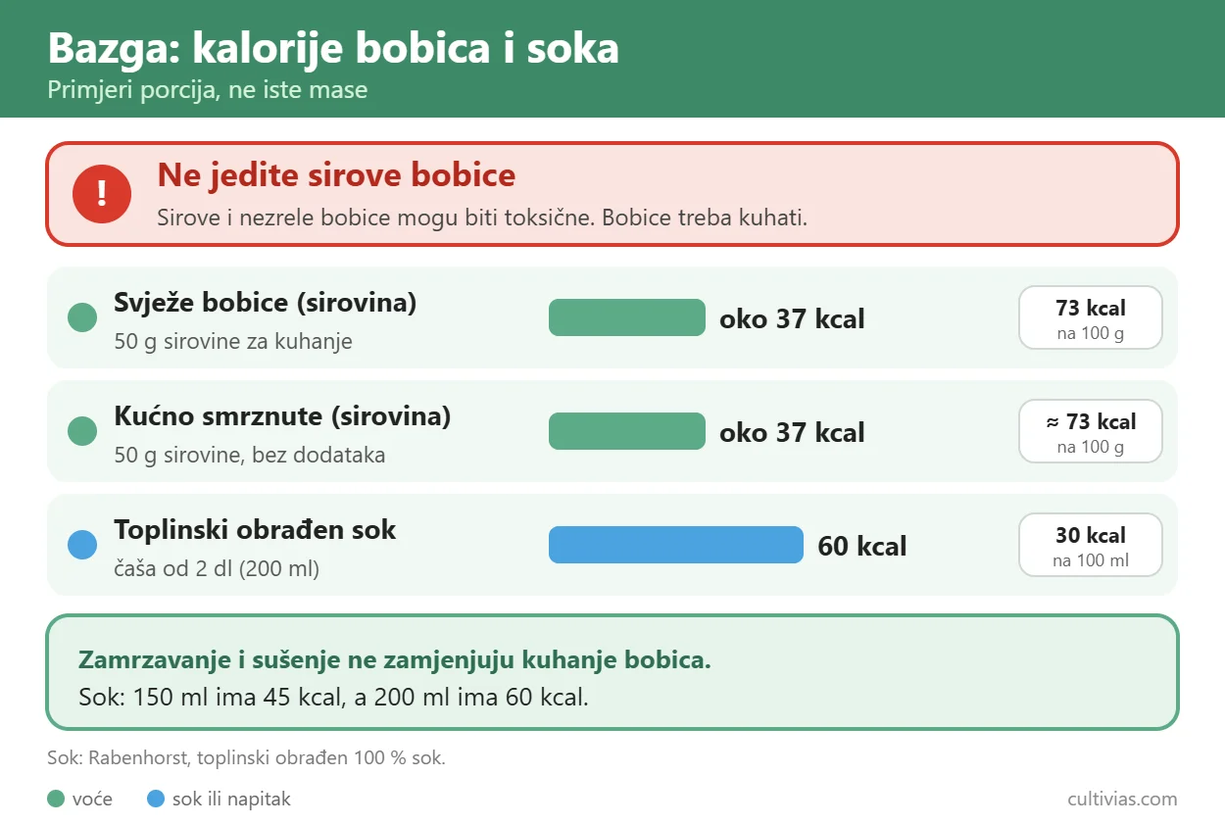
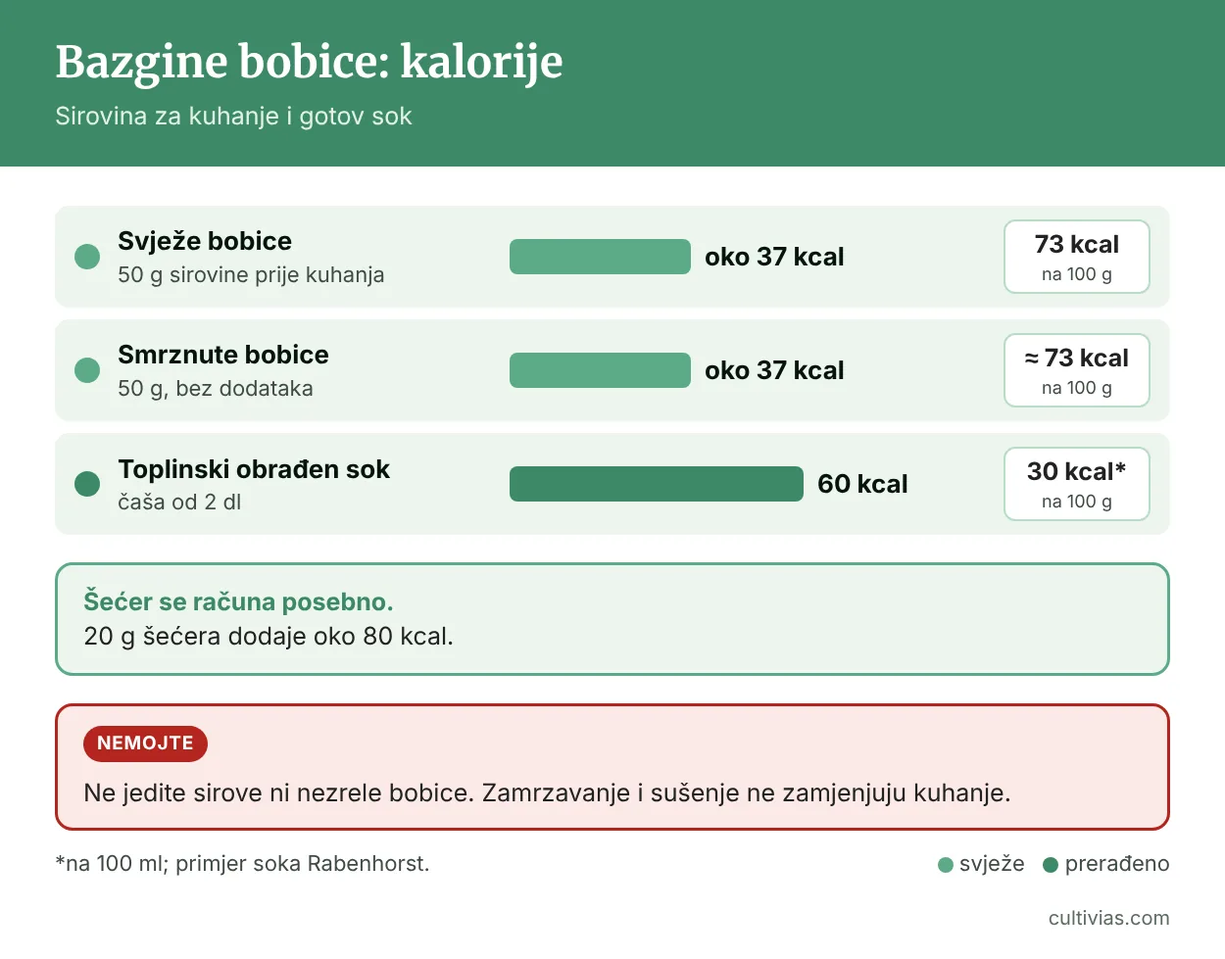
Bazga: čaj od bazge i kalorije bazginih bobica – ispravci i upozorenja
- Čaj od bazge: maknut naziv "aptika" (aptovina je otrovna abdovina),
  doziranje za djecu mlađu od 12 zamijenjeno EMA preporukom, maknute
  tvrdnje o ospicama i nekvalitetni izvori, doziranje usklađeno s EMA
- Kalorije bazginih bobica: izvori na hrvatskom, prerađena infografika
  s upozorenjem za sirove bobice, linkovi na srodne kalorijske članke

Claude-Session: https://claude.ai/code/session_01EBi2SCu3iP7XhSy3L9WRfJ

diff --git a/src/content/articles/čaj-od-bazge-ljekovitost-pravilna-priprema-i-moguće-nuspojave.md b/src/content/articles/čaj-od-bazge-ljekovitost-pravilna-priprema-i-moguće-nuspojave.md
@@ -11,6 +11,7 @@ perex: >-
   Priprema se od 3 do 5 grama osušenih cvjetova u 250 ml kipuće vode, uz stajanje od 10 do 15 minuta. Trudnicama i djeci mlađoj od 12 godina preporučuje se oprez i savjetovanje s liječnikom. Sirovi dijelovi biljke (bobice, lišće, kora) su toksični i ne smiju se konzumirati bez termičke obrade.
 readTime: 5
 publishedAt: 2026-07-09
+updatedAt: 2026-11-21
 expert_reviewed: false
 featured: true
 editors_pick: true
@@ -25,9 +26,9 @@ noindex: false
 ---
 ## Što je čaj od bazge?
 
-Čaj od bazge je biljni napitak koji se priprema od osušenih cvjetova **crne bazge** (*Sambucus nigra* L.), višegodišnjeg grma ili manjeg stabla iz porodice Adoxaceae. Biljka je u Europi poznata pod različitim imenima: **zova, zovika, bazgovina, aptika**, a njezina ljekovita primjena seže sve do antičke Grčke, kada je Hipokrat opisivao njezina diuretička i protuupalna svojstva. To potvrđuje i [sveobuhvatna studija o bioaktivnim komponentama cvijeta bazge](https://pmc.ncbi.nlm.nih.gov/articles/PMC11354468/) objavljena u časopisu *Foods* 2024. godine.
+Čaj od bazge je biljni napitak koji se priprema od osušenih cvjetova **crne bazge** (*Sambucus nigra* L.), višegodišnjeg grma ili manjeg stabla iz porodice Adoxaceae. U nas je poznata i kao **zova, zovika ili bazgovina**. Ne treba je brkati s abdovinom, koja se zove i aptovina (*Sambucus ebulus*), jer je ta srodnica otrovna. Ljekovita primjena bazge seže do antičke Grčke, kada je Hipokrat opisivao njezino diuretičko (djelovanje koje potiče mokrenje) i protuupalno djelovanje, kako navodi [pregledni rad o bioaktivnim tvarima cvijeta bazge](https://pmc.ncbi.nlm.nih.gov/articles/PMC11354468/) objavljen 2024. u znanstvenom časopisu *Foods*.
 
-Crna [bazga](https://www.cultivias.com/voce/bazga-zova-sve-o-ovoj-mo%C4%87noj-i-poznatoj-biljci/) prirodno raste diljem Europe, zapadne Azije i istočne Amerike. Može se pronaći uz rubove šuma, potoke, livade i prometnice. Stablo naraste do **10 metara visine**, a bijelo-žuti cvjetovi formiraju se u karakteristične "tanjure" i procvjetaju **od svibnja do srpnja**. Baš su ti cvjetovi, ubrani u punom cvatu, osnova su za pripremu čaja koji se koristi u ljekovite svrhe.
+Crna [bazga](https://www.cultivias.com/voce/bazga-zova-sve-o-ovoj-mo%C4%87noj-i-poznatoj-biljci/) prirodno raste diljem Europe, zapadne Azije i istočne Amerike, uz rubove šuma, potoke, livade i prometnice. Naraste do **10 metara**, a bijelo-žuti cvjetovi skupljeni su u plosnate cvatove nalik tanjurima i cvatu **od svibnja do srpnja**. Upravo se ti cvjetovi, ubrani u punom cvatu, koriste za čaj.
 
 Važno je naglasiti da se za pripremu čaja koriste isključivo **cvjetovi** i termički obrađene **bobice**, dok su lišće, kora, korijen i stabljika bazge **toksični dijelovi biljke** koji se ne smiju konzumirati u sirovom stanju.
 
@@ -35,9 +36,7 @@ Važno je naglasiti da se za pripremu čaja koriste isključivo **cvjetovi** i t
 
 
 
-Čaj od bazge najpoznatiji je kao potpora kod simptoma **prehlade, gripe i upale sinusa**. Aktivni spojevi u cvijetu mogu pomoći u smanjenju oticanja sluznice dišnih puteva i olakšavanju iškašljavanja, zbog čega je bazga jedan od rijetkih biljnih pripravaka čiju je primjenu kod prehlade odobrila **njemačka Komisija E** - stručno tijelo za ocjenu biljnih lijekova.
-
- Pregled ljekovitih svojstava cvijeta bazge koji vodi [WebMD u svojoj bazi prirodnih lijekova](https://www.webmd.com/vitamins/ai/ingredientmono-708/elderflower) to potvrđuje, uz napomenu da su neke tvrdnje još uvijek predmet istraživanja.
+Čaj od bazge najpoznatiji je kao potpora kod simptoma **prehlade, gripe i upale sinusa**. Aktivni spojevi u cvijetu mogu pomoći u smanjenju oticanja sluznice dišnih puteva i olakšavanju iškašljavanja, a njemačka **Komisija E**, nekadašnje stručno tijelo za ocjenu biljnih lijekova, odobrila je njegovu primjenu kod prehlade. Europska agencija za lijekove (EMA) također priznaje [tradicionalnu upotrebu cvijeta bazge](https://www.ema.europa.eu/en/medicines/herbal/sambuci-flos) kod prvih simptoma prehlade, ali samo kod odraslih i djece starije od 12 godina. Američki zdravstveni portal WebMD u [bazi prirodnih lijekova](https://www.webmd.com/vitamins/ai/ingredientmono-708/elderflower) navodi da su neke tvrdnje o bazgi još predmet istraživanja.
 
 U nastavku navodimo učinke za koje postoji studijska potpora, uz napomenu da većina istraživanja još uvijek nije provedena na dovoljno velikom uzorku ljudi:
 
@@ -45,23 +44,23 @@ U nastavku navodimo učinke za koje postoji studijska potpora, uz napomenu da ve
 
 Klorogenska i kavena kiselina prisutne u cvijetu pokazale su sposobnost inhibicije rasta nekoliko sojeva bakterija u laboratorijskim uvjetima, uključujući *Staphylococcus aureus* i *Pseudomonas aeruginosa*. 
 
-Prema istraživanju objavljenom u časopisu *Foods* (2024.), cvijet bazge pokazao je u laboratorijskim testovima veću inhibicijsku aktivnost prema bolničkim patogenima od lišća i bobica iste biljke — no važno je napomenuti da laboratorijski rezultati ne znače nužno isti učinak u ljudskom organizmu.
+Prema istraživanju objavljenom u časopisu *Foods* (2024.), cvijet bazge pokazao je u laboratorijskim testovima veću inhibicijsku aktivnost prema bolničkim patogenima od lišća i bobica iste biljke. Laboratorijski rezultati ne znače nužno isti učinak u ljudskom organizmu.
 
 * **Antioksidativna i protuupalna potpora**
 
- Flavonoidi i triterpeni u cvijetu bazge pokazuju sposobnost vezanja slobodnih radikala i smanjenja aktivnosti upalnih enzima u laboratorijskim istraživanjima. Studija iz 2024. utvrdila je da divlja forma bazge sadrži **394 mg polifenola na 100 g suhe tvari**, što je visoka vrijednost u usporedbi s drugim ljekovitim biljkama.
+ Flavonoidi i triterpeni u cvijetu bazge pokazuju sposobnost vezanja slobodnih radikala i smanjenja aktivnosti upalnih enzima u laboratorijskim istraživanjima. Prema spomenutom radu iz 2024., cvijet divlje bazge sadrži **394 mg polifenola na 100 g suhe tvari**.
 
 * **Poticanje znojenja (dijaforetski učinak)**
 
- Vrući čaj od bazge tradicionalno se koristi kao potpora kod **povišene tjelesne temperature**, poticanjem znojenja. Ovaj učinak dokumentiran je u tradicionalnoj medicini i prepoznat od strane njemačke Komisije E, što prenosi [Ordinacija.hr u svom pregledu ljekovitih svojstava bazge](https://ordinacija.vecernji.hr/zdravi-tanjur/jedi-zdravo/bazga-kao-lijek-donosimo-recepte-za-sirup-i-caj/).
+ Vrući čaj od bazge tradicionalno se koristi kao potpora kod **povišene tjelesne temperature**, poticanjem znojenja. Taj je učinak poznat u narodnoj medicini, a priznala ga je i njemačka Komisija E, kako prenosi hrvatski zdravstveni portal [Ordinacija.hr u pregledu ljekovitih svojstava bazge](https://ordinacija.vecernji.hr/zdravi-tanjur/jedi-zdravo/bazga-kao-lijek-donosimo-recepte-za-sirup-i-caj/).
 
 * **Moguća diuretička potpora**
 
-Bazga može pomoći u izlučivanju viška vode i soli iz tijela, što se u tradicionalnoj medicini koristi kao potpora kod blage **retencije tekućine**. Kliničkih istraživanja na ljudima na ovu temu je malo, pa su ovo  više narodni savjeti i preporuke. No kod bilokakvih ostalih tegoba i bolesti svakako se posavjetujete s liječnikom.
+Bazga može pomoći u izlučivanju viška vode i soli iz tijela, što se u tradicionalnoj medicini koristi kao potpora kod blage **retencije tekućine**. Kliničkih istraživanja na ljudima o tome ima malo, pa je riječ uglavnom o narodnim savjetima. Kod oticanja nogu ili drugih tegoba javite se liječniku, jer zadržavanje tekućine može biti znak bolesti srca ili bubrega.
 
 * **Moguća potpora regulaciji šećera u krvi**
 
- Istraživanja provedena na životinjskim modelima sugeriraju da ekstrakti bazge mogu utjecati na lučenje inzulina i apsorpciju glukoze. **Klinička istraživanja na ljudima još su ograničena** i ovi rezultati zahtijevaju daljnju potvrdu - bazga se ne smije koristiti kao zamjena za terapiju dijabetesa. No svako istraživanje kreće na životinjama, pa je svakako vrijedno popratiti kako će se sve ovo odvijati u budućnosti.
+ Istraživanja provedena na životinjskim modelima sugeriraju da ekstrakti bazge mogu utjecati na lučenje inzulina i apsorpciju glukoze. **Klinička istraživanja na ljudima još su ograničena** i ovi rezultati zahtijevaju daljnju potvrdu - bazga se ne smije koristiti kao zamjena za terapiju dijabetesa. Je li taj učinak važan i kod ljudi, tek treba istražiti.
 
 ![](/images/articles/drvo-bazge-u-punom-cvatu.webp)
 
@@ -73,8 +72,8 @@ Ljekovitost cvijeta bazge temelji se na bogatom i raznovrsnom kemijskom sastavu.
 | ---------------- | --------------------------------------------- | ----------------------------------------- |
 | Flavonoidi       | Rutin, kvercetin                              | Antioksidativno, protuupalno              |
 | Fenolne kiseline | Klorogenska, kavena, ferulinska kiselina      | Antibakterijsko, protuupalno              |
-| Triterpeni       | alfa-amirin, beta-amirin, ursulinska kiselina | Protuupalno, potencijalno antikancerogeno |
-| Steroli          | beta-sitosterol, kampesterol                  | Kardioprotektivno                         |
+| Triterpeni       | alfa-amirin, beta-amirin, ursulinska kiselina | Protuupalno; protutumorsko djelovanje istražuje se u laboratoriju |
+| Steroli          | beta-sitosterol, kampesterol                  | Moguća zaštita srca i krvnih žila (istražuje se) |
 | Vitamini         | Vitamin C, vitamin A                          | Antioksidativno, imunološko               |
 | Minerali         | Kalij, kalcij, željezo                        | Elektrolitska ravnoteža                   |
 | Esencijalna ulja | Oko 58 spojeva                                | Karakteristična aroma, antiseptičko       |
@@ -86,7 +85,7 @@ Ljekovitost cvijeta bazge temelji se na bogatom i raznovrsnom kemijskom sastavu.
 
 ## Kako se suši cvijet bazge za čaj?
 
-Pravilno sušenje cvjetova bazge ključno je za **očuvanje ljekovitih svojstava** i sprječavanje razvoja plijesni. Cvjetovi se beru u punom cvatu, kada je otvoreno oko 80% cvjetića na cvatu — u klimatskim uvjetima srednje Europe to odgovara razdoblju **od kraja svibnja do kraja lipnja**. Isti princip vrijedi i za sušenje kamilice, o čemu smo pisali u detaljnom vodiču [kako pravilno osušiti kamilicu za savršen čaj](https://www.cultivias.com/bilje/kako-pravilno-osu%C5%A1iti-kamilicu-za-savr%C5%A1en-%C4%8Daj/).
+Pravilno sušenje **čuva ljekovita svojstva** cvjetova bazge i sprječava plijesan. Cvjetovi se beru u punom cvatu, kada je otvoreno oko 80% cvjetića na cvatu — u klimatskim uvjetima srednje Europe to odgovara razdoblju **od kraja svibnja do kraja lipnja**. Isti princip vrijedi i za sušenje kamilice, o čemu piše članak [kako pravilno osušiti kamilicu](https://www.cultivias.com/bilje/kako-pravilno-osu%C5%A1iti-kamilicu-za-savr%C5%A1en-%C4%8Daj/).
 
 ### Tradicionalni domaći način sušenja i pripreme čaja u prahu- moj recept
 
@@ -117,13 +116,13 @@ Ako cvjetovi tijekom sušenja **potamne ili posmeđe**, treba ih baciti - izgubi
 4. Procijedite kroz sitno cjedilo ili filter.
 5. Po želji zasladite **medom** i dodajte nekoliko kapi svježe iscijeđenog limuna.
 
-Preporučuje se piti **2 do 3 šalice dnevno**, a kod akutnih simptoma prehlade ili gripe čaj se može konzumirati i svakih 2 sata.
+Pije se **2 do 3 šalice dnevno**. Europska agencija za lijekove za čaj navodi 2 do 5 g osušenog cvijeta tri puta dnevno, pa ga ne pijte češće, ni kod jače prehlade. Ako simptomi traju dulje od tjedan dana ili se pogoršaju, javite se liječniku. Kod prehlade se pije i [čaj od majčine dušice](https://www.cultivias.com/bilje/%C4%8Daj-od-maj%C4%8Dine-du%C5%A1ice-ljekovitost-djelovanje-i-pravilna-priprema/).
 
 ![](/images/articles/sušeni-cvjetovi-bazge-spremni-za-čaj.webp)
 
 ### Recept: Čaj od bazge i đumbira za jači imunitet
 
-Kombinacija bazge i đumbira pojačava antivirusno i protuupalno djelovanje napitka. Za pripremu su vam potrebni:
+Đumbir čaju daje ljutkast okus i također se tradicionalno pije kod prehlade, iako nije dokazano da pojačava djelovanje bazge. Za pripremu su vam potrebni:
 
 * 5 grama osušenih cvjetova bazge
 * 2 manja komadića svježe naribanog đumbira
@@ -131,59 +130,58 @@ Kombinacija bazge i đumbira pojačava antivirusno i protuupalno djelovanje napi
 * 1 žličica meda
 * Nekoliko kapi limunovog soka
 
-Cvjetove bazge prelijte kipućom vodom i ostavite 2 minute. Dodajte naribani đumbir i ostavite još 5 minuta. Procijedite, dodajte med i limun te poslužite vruće. Ovaj napitak posebno je preporučljiv **na početku prehlade ili gripe**, a recept navodi i portal Kreni Zdravo u svom [pregledu čaja od bazge i njegovih ljekovitih svojstava](https://krenizdravo.dnevnik.hr/prehrana/cajevi/caj-od-bazge).
+Cvjetove bazge prelijte kipućom vodom i ostavite 2 minute. Dodajte naribani đumbir i ostavite još 5 minuta. Procijedite, dodajte med i limun te poslužite vruće. Napitak se najčešće pije **na početku prehlade**, a sličan recept donosi i hrvatski zdravstveni portal Kreni Zdravo u [pregledu čaja od bazge i njegovih ljekovitih svojstava](https://krenizdravo.dnevnik.hr/prehrana/cajevi/caj-od-bazge).
 
 ## Čaj od bazge za djecu
 
-Čaj od cvjetova bazge smatra se sigurnim za djecu i tradicionalno se koristi za ublažavanje simptoma **dječjih prehlada, kašlja, gripe** te eruptivnih bolesti poput ospica i vodenih kozica. Pomaže pri iskašljavanju, smiruje upaljeno grlo i može blago sniziti povišenu temperaturu.
+Čaj od cvjetova bazge tradicionalno se daje djeci kod prehlade, kašlja i gripe, jer pomaže iskašljavanju, smiruje grlo i potiče znojenje. Europska agencija za lijekove (EMA) ipak navodi da su lijekovi od cvijeta bazge namijenjeni samo odraslima i djeci starijoj od 12 godina, jer za mlađu djecu nema dovoljno podataka o sigurnosti.
 
-Prema analizi integrativnog medicine specijalista dr. Naoki Umede s [Cleveland Clinica](https://health.clevelandclinic.org/elderberry-for-kids), bazga pripremljena na pravilan način može biti siguran i zdrav dio djetetove prehrane — uz ključnu napomenu da se **ne smiju koristiti lišće, grančice ili sirove bobice** jer sadrže cijanogene glikozide koji su toksični. 
+Zato vrijedi sljedeće:
 
-Slično vrijedi i za druge biljne čajeve koji se daju djeci, poput [čaja od kamilice](https://www.cultivias.com/bilje/%C4%8Daj-od-kamilice/), koji je zahvaljujući blagom djelovanju na probavu i živčani sustav jedan od najčešće preporučivanih biljnih napitaka za djecu.
+* **djeca mlađa od 12 godina** – čaj od bazge dajte samo uz savjet pedijatra
+* **djeca starija od 12 godina** – mogu piti čaj kao odrasli, a na početku je dovoljno pola šalice
+* **samo cvjetovi i kuhane bobice** – lišće, grančice i sirove bobice sadrže cijanogene glikozide, tvari iz kojih se u tijelu oslobađa otrovni cijanid, na što upozorava i Klinika Cleveland (Cleveland Clinic) u [članku o bazgi za djecu](https://health.clevelandclinic.org/elderberry-for-kids)
+* **alergija na pelud** – ako dijete ima peludnu alergiju, posavjetujte se s pedijatrom
 
-**Doziranje za djecu** razlikuje se od doziranja za odrasle:
+Visoka temperatura kod male djece, osip ili kašalj koji ne prolazi traže pregled liječnika, a čaj nije zamjena za liječenje. Kod djece se često daje i [čaj od kamilice](https://www.cultivias.com/bilje/%C4%8Daj-od-kamilice/), uz ista ograničenja za bebe.
 
-* **Djeca do 5 godina:** 1 do 2 žlice razrijeđenog čaja
-* **Djeca od 5 do 12 godina:** četvrtina do pola šalice
-* **Djeca starija od 12 godina:** pola šalice do jedna puna šalica
-
-Uvijek počnite s manjom dozom i pratite reakciju djeteta. Ako dijete ima poznate **alergije na pelud** ili trave, posavjetujte se s pedijatrom prije davanja čaja od bazge.
+![Infografika: što je kod bazge sigurno, a što nije; brati zrele bobice i kuhati ih, a ne jesti sirove i nezrele bobice, listove, koru ni peteljke, te ne davati pripravke od cvijeta djeci mlađoj od 12 godina](/images/articles/infografika-bazga-sigurna-upotreba.webp)
 
 ## Čaj od bazge u trudnoći i dojenju
 
-Sigurnost konzumacije čaja od bazge u **trudnoći i dojenju nije u potpunosti potvrđena** kliničkim istraživanjima, stoga se preporučuje oprez. Nema dovoljno podataka koji bi potvrdili ili isključili rizike za fetus ili novorođenče, što navodi i [pregled sigurnosti biljnih čajeva u trudnoći portala Netmums](https://www.netmums.com/pregnancy/can-you-drink-elderflower-when-pregnant).
+Sigurnost čaja od bazge u **trudnoći i dojenju nije potvrđena** istraživanjima. Američki Nacionalni centar za komplementarno i integrativno zdravlje ([NCCIH](https://www.nccih.nih.gov/health/elderberry)) navodi da se malo zna o tome je li bazga sigurna za trudnice i dojilje.
 
-Dok neki izvori navode da je umjerena konzumacija čaja od cvjetova (jedna do dvije šalice dnevno) prihvatljiva za trudnice, drugi preporučuju **potpuno izbjegavanje** zbog nedostatka kliničkih dokaza. 
+Neki izvori umjerene količine čaja od cvjetova smatraju prihvatljivima, a drugi savjetuju potpuno izbjegavanje, upravo zbog nedostatka podataka. To vrijedi i za bobice bazge.
 
-Posebno se naglašava da trudnice i dojilje **ne bi trebale konzumirati bobice bazge**, čak ni kuhane, jer aktivne tvari mogu prijeći u majčino mlijeko — što dokumentira analiza [My Pure Delivery o sigurnosti bazge za dojilje](https://mypuredelivery.com/5-reasons-elderberry-may-not-be-safe-while-breastfeeding/).
-
-Preporuka je jasna: ako ste trudni ili dojite i razmišljate o konzumaciji čaja od bazge, **obavezno se posavjetujte sa svojim ginekologom ili obiteljskim liječnikom** prije nego što ga počnete piti.
+Ako ste trudni ili dojite, prije pijenja čaja od bazge **posavjetujte se sa svojim ginekologom ili obiteljskim liječnikom**.
 
 ## Nuspojave i kontraindikacije
 
-Čaj od cvjetova bazge dobro se podnosi kod većine odraslih osoba kada se konzumira u preporučenim količinama. Nuspojave su rijetke, ali postoje situacije u kojima treba biti oprezan, što potvrđuje i [pregled nuspojava i kontraindikacija cvijeta bazge na WebMD-u](https://www.webmd.com/vitamins/ai/ingredientmono-708/elderflower).
+Čaj od cvjetova bazge dobro se podnosi kod većine odraslih osoba kada se konzumira u preporučenim količinama. Nuspojave su rijetke, ali postoje situacije u kojima treba biti oprezan, kako navodi i [pregled nuspojava i kontraindikacija cvijeta bazge na portalu WebMD](https://www.webmd.com/vitamins/ai/ingredientmono-708/elderflower).
 
 **Moguće nuspojave** uključuju proljev i probavne smetnje (mučnina, nadutost, grčevi) kod prekomjerne konzumacije, te alergijske reakcije kod osoba **alergičnih na pelud**, posebice na trave i biljke iz iste porodice.
 
 Kada je riječ o kontraindikacijama, posebno treba naglasiti sljedeće:
 
 * **Sirovi dijelovi biljke su toksični.** Lišće, kora, korijen, stabljika i nezrele bobice crne bazge sadrže cijanogene glikozide, koji se u tijelu mogu razgraditi u cijanovodičnu kiselinu. Simptomi trovanja uključuju mučninu, povraćanje i proljev. **Termičkom obradom** ovi spojevi se razgrađuju i biljka postaje sigurna za konzumaciju.
-* **Interakcije s lijekovima za dijabetes.** Bazga može sniziti razinu šećera u krvi, pa bi mogla pojačati učinak lijekova poput **metformina i inzulina**. Osobe s dijabetesom trebaju se posavjetovati s liječnikom.
-* **Interakcije s lijekovima za krvni tlak.** Bazga može sniziti krvni tlak, stoga se ne preporučuje kombinirati s **antihipertenzivima** bez savjeta liječnika.
+* **Interakcije s lijekovima za dijabetes.** Bazga bi mogla sniziti razinu šećera u krvi, pa bi mogla pojačati učinak lijekova poput **metformina i inzulina**. Osobe s dijabetesom trebaju se posavjetovati s liječnikom.
+* **Interakcije s lijekovima za krvni tlak.** Bazga bi mogla sniziti krvni tlak, stoga se ne preporučuje kombinirati s **antihipertenzivima** bez savjeta liječnika.
 * **Diuretici.** Budući da bazga ima vlastito diuretičko djelovanje, kombinacija s diureticima može dovesti do prekomjernog gubitka tekućine i elektrolita.
 * **Kemoterapija.** Osobe koje primaju kemoterapiju trebaju se posavjetovati s onkologom prije konzumacije bazge.
 
 ## Čaj od bazge i probava
 
-Čaj od bazge može pozitivno utjecati na probavni sustav na nekoliko načina. **Klorogenska kiselina** prisutna u cvijetu stimulira crijevnu peristaltiku i potiče lučenje žuči i klorovodične kiseline, što poboljšava probavu i može pomoći kod **zatvora**. Slično protuupalno djelovanje na probavni sustav ima i kamilica, o čemu detaljno pišemo u članku [kamilica za olakšanje probave, nadutosti i grčeva](https://www.cultivias.com/bilje/kamilica-olak%C5%A1anje-probave-nadutosti-i-gr%C4%8Deva/).
+Čaj od bazge može pozitivno utjecati na probavni sustav na nekoliko načina. Smatra se da **klorogenska kiselina** iz cvijeta potiče peristaltiku (pokrete crijeva kojima se sadržaj kreće prema van) i lučenje žuči i želučane kiseline, pa bi mogla pomoći kod **zatvora**. Za to zasad nema čvrstih dokaza na ljudima. Slično protuupalno djelovanje na probavni sustav ima i kamilica, o čemu detaljno pišemo u članku [kamilica za olakšanje probave, nadutosti i grčeva](https://www.cultivias.com/bilje/kamilica-olak%C5%A1anje-probave-nadutosti-i-gr%C4%8Deva/).
 
-Istraživanja su pokazala da čajne mješavine koje sadrže bazgu, zajedno s **anisem, komoračem i cvjetom sene**, mogu značajno ubrzati prolazak sadržaja kroz probavni sustav i olakšati opstipaciju. Treba ipak napomenuti da je teško sa sigurnošću pripisati ovaj učinak isključivo bazgi, s obzirom da se radi o mješavini biljaka.
+Istraživanja su pokazala da čajne mješavine koje sadrže bazgu, zajedno s **anisem, komoračem i cvjetom sene**, mogu značajno ubrzati prolazak sadržaja kroz probavni sustav i olakšati opstipaciju. Učinak se ne može pripisati samo bazgi, jer je sena (list biljke *Senna*) sama po sebi jako laksativno sredstvo.
 
-Za jači laksativni učinak koristi se **čaj od bobica bazge** (dekokt), koji se priprema kuhanjem 10 do 15 grama suhih bobica u pola litre vode 10 minuta, uz stajanje od još 10 minuta i cijeđenje. Ovaj napitak djeluje nešto snažnije od čaja od cvjetova i preporučuje se kod izraženog zatvora.
+Za jači laksativni učinak koristi se **čaj od bobica bazge** (dekokt), koji se priprema kuhanjem 10 do 15 grama suhih bobica u pola litre vode 10 minuta, uz stajanje od još 10 minuta i cijeđenje. Djeluje nešto jače od čaja od cvjetova. Bobice se moraju kuhati, a ako zatvor traje dulje od nekoliko dana ili ga prate bolovi, javite se liječniku.
 
 ## Gdje kupiti i kolika je cijena čaja od bazge?
 
 Čaj od bazge dostupan je u **ljekarnama, specijaliziranim prodavaonicama zdrave prehrane** i web shopovima. U Hrvatskoj ga nude poznati brendovi kao što su **Suban, Vrelis, Biofarm** i drugi domaći proizvođači biljnih čajeva.
+
+Okvirne cijene (mogu se razlikovati po trgovinama i godinama):
 
 | Oblik proizvoda                 | Tipična količina | Prosječna cijena     |
 | ------------------------------- | ---------------- | -------------------- |
@@ -200,9 +198,9 @@ Ako sami berete i sušite cvijet bazge, troškovi su minimalni, a kvaliteta mož
 
 Cvijet i bobice bazge imaju **različit kemijski sastav** i koriste se u različite svrhe, što je važno razumjeti pri odabiru odgovarajućeg pripravka.
 
-**Cvijet bazge** bogat je flavonoidima, fenolnim kiselinama i eteričnim uljima. Primarno se koristi za **respiratorne tegobe** (prehlada, gripa, sinusitis), poticanje znojenja i kao blagi diuretik. Čaj od cvijeta blaže je djelovanje i sigurniji za širu primjenu.
+**Cvijet bazge** bogat je flavonoidima, fenolnim kiselinama i eteričnim uljima. Primarno se koristi za **respiratorne tegobe** (prehlada, gripa, sinusitis), poticanje znojenja i kao blagi diuretik. Čaj od cvijeta djeluje blaže.
 
-**Bobice crne bazge** sadrže visoke koncentracije antocijana, vitamina C i B vitamina, organskih kiselina te dijetalnih vlakana. Jedna šalica bobica sadrži oko **52 mg vitamina C** i **406 mg kalija**. Bobice imaju snažnije antioksidativno i imunostimulirajuće djelovanje, ali se **moraju termički obraditi** (kuhati najmanje 10 minuta) jer sirove bobice sadrže toksične cijanogene glikozide.
+**Bobice crne bazge** sadrže visoke koncentracije antocijana, vitamina C i B vitamina, organskih kiselina te dijetalnih vlakana. Jedna šalica bobica sadrži oko **52 mg vitamina C** i **406 mg kalija**, a koliko kalorija imaju bobice, sok i sirup, donosi [pregled kalorija bazginih bobica](https://www.cultivias.com/voce/bazgine-bobice-kalorije-u-svje%C5%BEem-plodu-soku-i-sirupu/). Bobice imaju snažnije antioksidativno i imunostimulirajuće djelovanje, ali se **moraju termički obraditi** (kuhati najmanje 10 minuta) jer sirove bobice sadrže toksične cijanogene glikozide.
 
 | Karakteristika    | Cvijet bazge                  | Bobice bazge             |
 | ----------------- | ----------------------------- | ------------------------ |
@@ -210,10 +208,20 @@ Cvijet i bobice bazge imaju **različit kemijski sastav** i koriste se u različ
 | Sigurnost sirovog | Siguran                       | Toksičan, mora se kuhati |
 | Priprema čaja     | Infuz (prelijevanje)          | Dekokt (kuhanje)         |
 | Dostupnost        | Proljeće (svibanj–lipanj)     | Jesen (rujan)            |
-| Trudnoća          | Oprez, konzultirati liječnika | Ne preporučuje se        |
+| Trudnoća          | Malo podataka, savjet liječnika | Malo podataka, savjet liječnika |
 
 
 
 Ako vas zanima kako slično pristupiti berbi i sušenju drugog ljekovitog bilja, pročitajte naš vodič o [berbi i sušenju mente](https://www.cultivias.com/bilje/vodi%C4%8D-za-berbu-i-su%C5%A1enje-mente-od-svje%C5%BEeg-lista-do-%C4%8Daja/) koji pokriva iste principe čuvanja bioaktivnih tvari.
 
 > **Napomena:** Ovaj tekst isključivo je informativnog karaktera i ne zamjenjuje stručni medicinski savjet. Uvijek se posavjetujte s liječnikom ili ljekarnikom prije nego što počnete koristiti biljne pripravke, posebice ako imate kronične bolesti, uzimate lijekove ili ste trudni.
+
+## Izvori
+
+- Europska agencija za lijekove (EMA) – [Cvijet bazge, sažetak za biljni lijek (Sambuci flos)](https://www.ema.europa.eu/en/medicines/herbal/sambuci-flos)
+- Nacionalni centar za komplementarno i integrativno zdravlje (NCCIH), SAD – [Bazga (Elderberry)](https://www.nccih.nih.gov/health/elderberry)
+- Pregledni rad (2024.) – [Bioaktivne tvari cvijeta bazge](https://pmc.ncbi.nlm.nih.gov/articles/PMC11354468/), Foods
+- WebMD, američki zdravstveni portal – [Cvijet bazge (Elderflower)](https://www.webmd.com/vitamins/ai/ingredientmono-708/elderflower)
+- Klinika Cleveland (Cleveland Clinic) – [Bazga za djecu (Elderberry for kids)](https://health.clevelandclinic.org/elderberry-for-kids)
+- Ordinacija.hr, hrvatski zdravstveni portal – [Bazga kao lijek: recepti za sirup i čaj](https://ordinacija.vecernji.hr/zdravi-tanjur/jedi-zdravo/bazga-kao-lijek-donosimo-recepte-za-sirup-i-caj/)
+- Kreni Zdravo, hrvatski zdravstveni portal – [Čaj od bazge](https://krenizdravo.dnevnik.hr/prehrana/cajevi/caj-od-bazge)

diff --git a/src/content/articles/bazgine-bobice-kalorije-u-svježem-plodu-soku-i-sirupu.md b/src/content/articles/bazgine-bobice-kalorije-u-svježem-plodu-soku-i-sirupu.md
@@ -22,7 +22,7 @@ noindex: false
 ---
 ## Koliko kalorija ima manja količina bobica?
 
-[Pedeset grama očišćenih svježih bobica](https://fdc.nal.usda.gov/food-details/171727/nutrients) ima približno **37 kcal prije obrade**. Za lakšu procjenu sastojaka jednom izvažite 100 g očišćenih bobica u svojoj zdjelici i zapamtite razinu. To su količine sirovine koju ćete kuhati, ne [porcije za sirovu konzumaciju](https://www.nccih.nih.gov/health/elderberry).
+Prema bazi podataka FoodData Central američkog Ministarstva poljoprivrede (USDA), [pedeset grama očišćenih svježih bobica](https://fdc.nal.usda.gov/food-details/171727/nutrients) ima približno **37 kcal prije obrade**. Za lakšu procjenu sastojaka jednom izvažite 100 g očišćenih bobica u svojoj zdjelici i zapamtite razinu. To su količine sirovine koju ćete kuhati, a ne [porcije za jelo sirovih bobica](https://www.nccih.nih.gov/health/elderberry): američki Nacionalni centar za komplementarno i integrativno zdravlje (NCCIH) upozorava da sirove i nezrele bobice sadrže tvari iz kojih nastaje cijanid, a kuhanje ih uklanja.
 
 | Oblik | Kalorije na 100 g ili 100 ml | Količina za pripremu ili porcija napitka | Kalorije te količine |
 | --- | ---: | --- | ---: |
@@ -30,21 +30,21 @@ noindex: false
 | Kućno smrznute bobice bez dodataka, sirovina prije kuhanja | približno 73 kcal / 100 g | 50 g sirovine | oko 37 kcal |
 | Toplinski obrađen (zagrijan tijekom proizvodnje) 100 % sok od bobica | 30 kcal / 100 ml | Čaša od 2 dl, 200 ml | 60 kcal |
 
-Sok u tablici je Rabenhorst, pa brojka vrijedi za taj proizvod, ne za sve sokove od bazge. Količine bobica služe računanju sastojaka prije kuhanja, a čaša soka je primjer kalorijskog izračuna, ne preporuka dnevnog unosa.
+Sok u tablici proizvod je njemačkog proizvođača sokova Rabenhorst, pa brojka vrijedi za taj proizvod, a ne za sve sokove od bazge. Količine bobica služe računanju sastojaka prije kuhanja, a čaša soka je primjer kalorijskog izračuna, ne preporuka dnevnog unosa.
 
-![Infografika: bazgine bobice se ne jedu sirove. 50 g sirovine za kuhanje ima oko 37 kcal, a čaša od 2 dl toplinski obrađenog soka 60 kcal](/images/articles/infografika-bazgine-bobice-kalorije.webp)
+![Infografika: kalorije bazginih bobica, 50 g sirovine za kuhanje ima oko 37 kcal, a čaša od 2 dl toplinski obrađenog soka 60 kcal, uz upozorenje da se sirove i nezrele bobice ne jedu](/images/articles/infografika-bazgine-bobice-kalorije.webp)
 
 ### Imaju li kuhane bobice također 73 kcal na 100 g?
 
 Ne nužno, jer kuhanjem može ispariti voda, a šećer ili drugi dodaci donose dodatnu energiju. Ako ostanu svi jestivi sastojci, kalorije cijele smjese mogu se približno izračunati iz njihovih količina, dok vrijednost na 100 g ovisi i o završnoj masi jela.
 
-Primjer računa: 100 g bobica (73 kcal) i 20 g [šećera](https://www.matvaretabellen.no/en/sugar-white-caster-sugar-cube-sugar/) (80 kcal) daju ukupno 153 kcal. Ako gotova smjesa teži 120 g, to je oko 128 kcal na 100 g, dakle više nego u sirovim bobicama.
+Primjer računa: 100 g bobica (73 kcal) i 20 g [šećera](https://www.matvaretabellen.no/en/sugar-white-caster-sugar-cube-sugar/) (80 kcal, prema norveškoj službenoj bazi o sastavu namirnica Matvaretabellen) daju ukupno 153 kcal. Ako gotova smjesa teži 120 g, to je oko 128 kcal na 100 g, dakle više nego u sirovim bobicama.
 
 ## Što se mijenja zamrzavanjem bobica?
 
 Za cijele bobice zamrznute kod kuće bez dodataka može se uzeti približno 73 kcal na 100 g, kao za svježu sirovinu. Samo zamrzavanje ne dodaje kalorije, no zaslađena smjesa nije isto što i čisti plodovi.
 
-[Zamrzavanje i sušenje ne zamjenjuju kuhanje bobica](https://extension.oregonstate.edu/catalog/em-9446-play-it-safe-when-preserving-elderberries). Odmrznute bobice zato i dalje treba pripremiti provjerenim postupkom, uz uklanjanje listova i stabljika.
+Savjetodavna služba Sveučilišta Oregon State (Oregon State University Extension), jedna od američkih sveučilišnih službi koje izdaju upute za kućnu preradu hrane, [upozorava](https://extension.oregonstate.edu/catalog/em-9446-play-it-safe-when-preserving-elderberries) da zamrzavanje i sušenje ne zamjenjuju kuhanje bobica. Odmrznute bobice zato i dalje treba pripremiti provjerenim postupkom, uz uklanjanje listova i stabljika.
 
 ## Koliko kalorija ima sok od bazginih bobica?
 
@@ -70,7 +70,7 @@ Voda smanjuje kalorije na 100 ml napitka, ali ne uklanja energiju ulivenog sirup
 
 ### Je li cvjetni sirup isto što i sirup od bobica?
 
-Nije: poznati svijetli sirup od bazge priprema se od cvjetova, a tamni sirup od plodova. [Razlika između cvjetova i bobica bazge](https://www.cultivias.com/voce/bazga-zova-sve-o-ovoj-mo%C4%87noj-i-poznatoj-biljci/) pomaže prepoznati o kojem je pripravku riječ, no kalorije oba sirupa ovise o recepturi.
+Nije: poznati svijetli sirup od bazge priprema se od cvjetova, a tamni sirup od plodova. [Razlika između cvjetova i bobica bazge](https://www.cultivias.com/voce/bazga-zova-sve-o-ovoj-mo%C4%87noj-i-poznatoj-biljci/) pomaže prepoznati o kojem je pripravku riječ, no kalorije oba sirupa ovise o recepturi. Od osušenih cvjetova priprema se i [čaj od bazge](https://www.cultivias.com/bilje/%C4%8Daj-od-bazge-ljekovitost-pravilna-priprema-i-mogu%C4%87e-nuspojave/).
 
 ## Kako računati sušene bobice i prah?
 
@@ -88,6 +88,6 @@ Kod domaće smjese u kojoj ništa ne odbacujete kalorije se mogu približno rač
 
 Primjer računa za zamišljeni kompot: 200 g bobica (146 kcal), 50 g šećera (200 kcal) i 250 ml vode (0 kcal) daju ukupno 346 kcal u 500 g kompota, odnosno oko 69 kcal na 100 g. Porcija od 150 g tada ima oko 104 kcal.
 
-Za bazgu najprije razlikujte sirovinu koja se mora kuhati od gotovog napitka. Čaša od 2 dl prikazanog toplinski obrađenog soka ima 60 kcal, dok za istu čašu razrijeđenog sirupa račun ovisi o količini ulivenog sirupa.
+Za bazgu najprije razlikujte sirovinu koja se mora kuhati od gotovog napitka. Čaša od 2 dl prikazanog toplinski obrađenog soka ima 60 kcal, dok za istu čašu razrijeđenog sirupa račun ovisi o količini ulivenog sirupa. Na isti način usporedili smo kalorije srodnog tamnog voća: [aronije](https://www.cultivias.com/voce/aronija-kalorije-svje%C5%BEe-bobice-sok-prah-i-su%C5%A1ena-aronija/), [crnog ribiza](https://www.cultivias.com/voce/crni-ribiz-kalorije-prema-obliku-proizvoda/) i [kupina](https://www.cultivias.com/voce/kupine-kalorije-u-svezim-zamrznutim-susenim-i-dzemu/).
 
 > *Tekst je informativan i ne zamjenjuje individualni savjet liječnika ili nutricionista. Za prehranu prilagođenu zdravstvenom stanju obratite se stručnjaku.*
